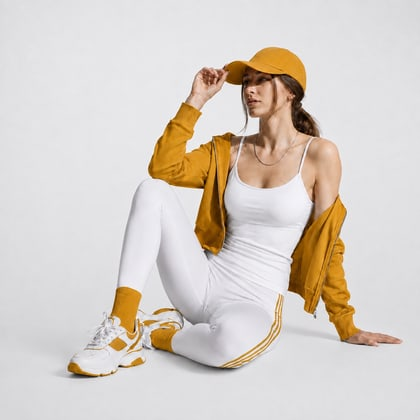
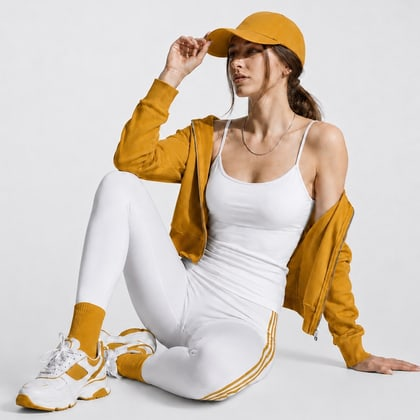
Replace the ست ورزشی tile photo with the client's re-supplied version

Changed region(s): [[0.0929, 0.0, 1.0, 0.9905], [0.031, 0.8976, 0.1857, 0.9905]]

diff --git a/theme/make-category-photos.js b/theme/make-category-photos.js
@@ -32,7 +32,7 @@ const SOURCES = {
   boot: 'boot.png',
   'bag-set': 'bag-set.png',
   accessory: 'accessory.png',
-  'sport-set': 'sport-set.png',
+  'sport-set': 'sport-set.jpg',
 };
 
 (async () => {
